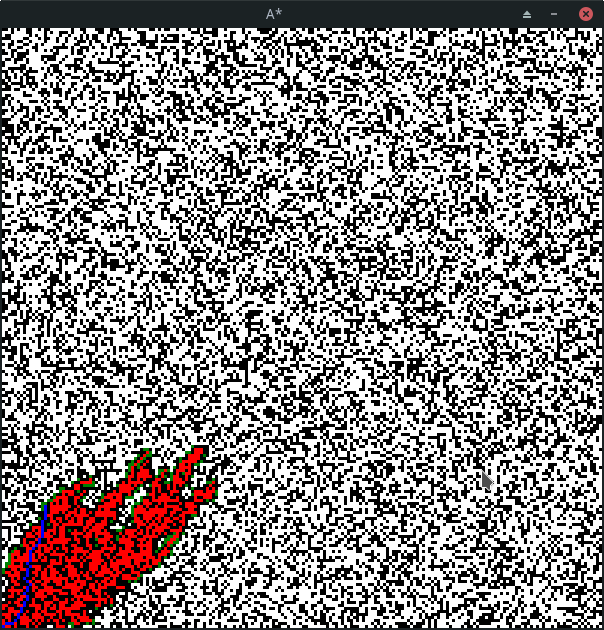
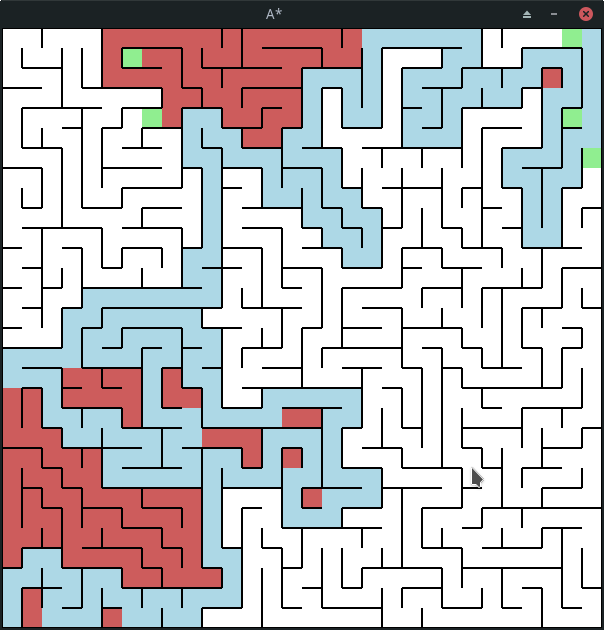
Set up maze on grid creation rather than random non-traversable nodes; updated readme

diff --git a/grid.go b/grid.go
@@ -3,32 +3,8 @@ package main
 import (
 	"github.com/faiface/pixel"
 	"github.com/faiface/pixel/pixelgl"
-	"golang.org/x/image/colornames"
 	"math/rand"
 )
-
-var pict *pixel.PictureData
-var red, green, blue, black *pixel.Sprite
-
-func init() {
-	pict = pixel.MakePictureData(pixel.R(0, 0, scale, scale*4))
-	for i := 0; i < len(pict.Pix); i++ {
-		switch i / int(scale*scale) {
-		case 0:
-			pict.Pix[i] = colornames.Green
-		case 1:
-			pict.Pix[i] = colornames.Blue
-		case 2:
-			pict.Pix[i] = colornames.Red
-		case 3:
-			pict.Pix[i] = colornames.Black
-		}
-	}
-	green = pixel.NewSprite(pict, pixel.R(0, 0, scale, scale))
-	blue = pixel.NewSprite(pict, pixel.R(0, scale, scale, scale*2))
-	red = pixel.NewSprite(pict, pixel.R(0, scale*2, scale, scale*3))
-	black = pixel.NewSprite(pict, pixel.R(0, scale*3, scale, scale*4))
-}
 
 type Grid struct {
 	width, height, src_x, src_y, dst_x, dst_y int
@@ -54,20 +30,89 @@ func NewGrid(width, height, src_x, src_y, dst_x, dst_y int) *Grid {
 	for x := 0; x < width; x++ {
 		g.grid = append(g.grid, make([]*Node, height))
 		for y := 0; y < height; y++ {
-			chance := rand.Float64()
-			traversable := false
-			if chance > 0.2 || (x == src_x && y == src_y) || (x == dst_x && y == dst_y) {
-				traversable = true
-			}
-			g.grid[x][y] = NewNode(float64(x), float64(y), traversable)
+			g.grid[x][y] = NewNode(float64(x), float64(y))
 			g.grid[x][y].Hscore(float64(dst_x), float64(dst_y))
 		}
 		g.opened[x] = make(map[int]*Node)
 		g.closed[x] = make(map[int]*Node)
 	}
 
+	g.InitMaze()
+	g.Restart()
+
 	g.opened[src_x][src_y] = g.grid[src_x][src_y]
 	return g
+}
+
+func (g *Grid) InitMaze() {
+	stack := []*Node{}
+
+	current := g.grid[g.src_x][g.src_y]
+	current.last = current
+	stack = append(stack, current)
+
+	for {
+		if len(stack) == 0 {
+			break
+		}
+
+		// Pop from stack
+		current = stack[len(stack)-1]
+		stack = stack[:len(stack)-1]
+
+		// Select random unvisited neighbor
+		unvisited := []*Node{}
+		if current.x > 0 {
+			left := g.grid[int(current.x)-1][int(current.y)]
+			if left.last == nil {
+				unvisited = append(unvisited, left)
+			}
+		}
+		if int(current.x) < g.width-1 {
+			right := g.grid[int(current.x)+1][int(current.y)]
+			if right.last == nil {
+				unvisited = append(unvisited, right)
+			}
+		}
+		if current.y > 0 {
+			down := g.grid[int(current.x)][int(current.y)-1]
+			if down.last == nil {
+				unvisited = append(unvisited, down)
+			}
+		}
+		if int(current.y) < g.height-1 {
+			up := g.grid[int(current.x)][int(current.y)+1]
+			if up.last == nil {
+				unvisited = append(unvisited, up)
+			}
+		}
+		if len(unvisited) == 0 {
+			continue
+		}
+		stack = append(stack, current)
+		next := unvisited[rand.Intn(len(unvisited))]
+
+		// Remove wall between cells
+		if current.x > next.x {
+			current.left = false
+			next.right = false
+		}
+		if current.x < next.x {
+			current.right = false
+			next.left = false
+		}
+		if current.y > next.y {
+			current.down = false
+			next.up = false
+		}
+		if current.y < next.y {
+			current.up = false
+			next.down = false
+		}
+
+		next.last = next
+		stack = append(stack, next)
+	}
 }
 
 func (g *Grid) Restart() {
@@ -85,6 +130,12 @@ func (g *Grid) Restart() {
 
 func (g *Grid) Draw(win *pixelgl.Window) {
 	g.batch.Clear()
+	for x := range g.grid {
+		for y := range g.grid[x] {
+			g.grid[x][y].Draw(g.batch, white)
+		}
+	}
+
 	for _, v := range g.closed {
 		for _, iv := range v {
 			iv.Draw(g.batch, red)
@@ -100,14 +151,6 @@ func (g *Grid) Draw(win *pixelgl.Window) {
 	for current != nil {
 		current.Draw(g.batch, blue)
 		current = current.last
-	}
-
-	for x := range g.grid {
-		for y := range g.grid[x] {
-			if !g.grid[x][y].traversable {
-				g.grid[x][y].Draw(g.batch, black)
-			}
-		}
 	}
 
 	g.batch.Draw(win)
@@ -165,87 +208,27 @@ func (g *Grid) Step() (complete bool) {
 	g.current = current
 
 	// Left neighbor
-	if g.current.x > 0 {
+	if !g.current.left {
 		left := g.grid[int(g.current.x)-1][int(g.current.y)]
-		if left.traversable {
-			g.UpdateNeighbor(g.current, left)
-		}
+		g.UpdateNeighbor(g.current, left)
 	}
 
 	// Right neighbor
-	if int(g.current.x) < g.width-1 {
+	if !g.current.right {
 		right := g.grid[int(g.current.x)+1][int(g.current.y)]
-		if right.traversable {
-			g.UpdateNeighbor(g.current, right)
-		}
+		g.UpdateNeighbor(g.current, right)
 	}
 
 	// Bottom neighbor
-	if g.current.y > 0 {
+	if !g.current.down {
 		down := g.grid[int(g.current.x)][int(g.current.y)-1]
-		if down.traversable {
-			g.UpdateNeighbor(g.current, down)
-		}
+		g.UpdateNeighbor(g.current, down)
 	}
 
 	// Top neighbor
-	if int(g.current.y) < g.height-1 {
+	if !g.current.up {
 		up := g.grid[int(g.current.x)][int(g.current.y)+1]
-		if up.traversable {
-			g.UpdateNeighbor(g.current, up)
-		}
-	}
-
-	// Bottom-left neighbor
-	if g.current.x > 0 && g.current.y > 0 {
-		left := g.grid[int(g.current.x)-1][int(g.current.y)]
-		down := g.grid[int(g.current.x)][int(g.current.y)-1]
-
-		if left.traversable || down.traversable {
-			left_down := g.grid[int(g.current.x)-1][int(g.current.y)-1]
-			if left_down.traversable {
-				g.UpdateNeighbor(g.current, left_down)
-			}
-		}
-	}
-
-	// Top-left neighbor
-	if g.current.x > 0 && int(g.current.y) < g.height-1 {
-		left := g.grid[int(g.current.x)-1][int(g.current.y)]
-		up := g.grid[int(g.current.x)][int(g.current.y)+1]
-
-		if left.traversable || up.traversable {
-			left_up := g.grid[int(g.current.x)-1][int(g.current.y)+1]
-			if left_up.traversable {
-				g.UpdateNeighbor(g.current, left_up)
-			}
-		}
-	}
-
-	// Bottom-right neighbor
-	if int(g.current.x) < g.width-1 && g.current.y > 0 {
-		right := g.grid[int(g.current.x)+1][int(g.current.y)]
-		down := g.grid[int(g.current.x)][int(g.current.y)-1]
-
-		if right.traversable || down.traversable {
-			right_down := g.grid[int(g.current.x)+1][int(g.current.y)-1]
-			if right_down.traversable {
-				g.UpdateNeighbor(g.current, right_down)
-			}
-		}
-	}
-
-	// Top-right neighbor
-	if int(g.current.x) < g.width-1 && int(g.current.y) < g.height-1 {
-		right := g.grid[int(g.current.x)+1][int(g.current.y)]
-		up := g.grid[int(g.current.x)][int(g.current.y)+1]
-
-		if right.traversable || up.traversable {
-			right_up := g.grid[int(g.current.x)+1][int(g.current.y)+1]
-			if right_up.traversable {
-				g.UpdateNeighbor(g.current, right_up)
-			}
-		}
+		g.UpdateNeighbor(g.current, up)
 	}
 
 	return false

diff --git a/node.go b/node.go
@@ -2,23 +2,28 @@ package main
 
 import (
 	"github.com/faiface/pixel"
+	"github.com/faiface/pixel/imdraw"
+	"golang.org/x/image/colornames"
 	"math"
 )
 
 type Node struct {
-	x, y, g, h float64
-	last *Node
-	traversable bool
+	x, y, g, h            float64
+	last                  *Node
+	left, right, down, up bool
 }
 
-func NewNode(x, y float64, traversable bool) *Node {
+func NewNode(x, y float64) *Node {
 	n := &Node{
-		x: x,
-		y: y,
-		g: -1,
-		h: 0,
-		last: nil,
-		traversable: traversable,
+		x:     x,
+		y:     y,
+		g:     -1,
+		h:     0,
+		last:  nil,
+		left:  true,
+		right: true,
+		down:  true,
+		up:    true,
 	}
 	return n
 }
@@ -40,6 +45,38 @@ func (n *Node) dist(x, y float64) float64 {
 	return math.Sqrt(first + second)
 }
 
-func (n *Node) Draw (win pixel.Target, tile *pixel.Sprite) {
-	tile.Draw(win, pixel.IM.Moved(pixel.V(n.x * scale + scale/2, n.y * scale + scale/2)))
+func (n *Node) Draw(win pixel.Target, tile *pixel.Sprite) {
+	tile.Draw(win, pixel.IM.Moved(pixel.V(n.x*scale+scale/2, n.y*scale+scale/2)))
+
+	imd := imdraw.New(nil)
+	thickness := scale / 10
+
+	if n.left {
+		imd.Color = colornames.Black
+		imd.Push(pixel.V(n.x*scale, n.y*scale+scale), pixel.V(n.x*scale, n.y*scale))
+		imd.Line(thickness)
+		imd.Draw(win)
+		imd.Reset()
+	}
+	if n.right {
+		imd.Color = colornames.Black
+		imd.Push(pixel.V(n.x*scale+scale, n.y*scale+scale), pixel.V(n.x*scale+scale, n.y*scale))
+		imd.Line(thickness)
+		imd.Draw(win)
+		imd.Reset()
+	}
+	if n.down {
+		imd.Color = colornames.Black
+		imd.Push(pixel.V(n.x*scale, n.y*scale), pixel.V(n.x*scale+scale, n.y*scale))
+		imd.Line(thickness)
+		imd.Draw(win)
+		imd.Reset()
+	}
+	if n.up {
+		imd.Color = colornames.Black
+		imd.Push(pixel.V(n.x*scale, n.y*scale+scale), pixel.V(n.x*scale+scale, n.y*scale+scale))
+		imd.Line(thickness)
+		imd.Draw(win)
+		imd.Reset()
+	}
 }

diff --git a/sprites.go b/sprites.go
@@ -1,0 +1,29 @@
+package main
+
+import (
+	"github.com/faiface/pixel"
+	"golang.org/x/image/colornames"
+)
+
+var pict *pixel.PictureData
+var red, green, blue, white *pixel.Sprite
+
+func init() {
+	pict = pixel.MakePictureData(pixel.R(0, 0, scale, scale*4))
+	for i := 0; i < len(pict.Pix); i++ {
+		switch i / int(scale*scale) {
+		case 0:
+			pict.Pix[i] = colornames.Lightgreen
+		case 1:
+			pict.Pix[i] = colornames.Lightblue
+		case 2:
+			pict.Pix[i] = colornames.Indianred
+		case 3:
+			pict.Pix[i] = colornames.White
+		}
+	}
+	green = pixel.NewSprite(pict, pixel.R(0, 0, scale, scale))
+	blue = pixel.NewSprite(pict, pixel.R(0, scale, scale, scale*2))
+	red = pixel.NewSprite(pict, pixel.R(0, scale*2, scale, scale*3))
+	white = pixel.NewSprite(pict, pixel.R(0, scale*3, scale, scale*4))
+}

diff --git a/main.go b/main.go
@@ -10,9 +10,8 @@ import (
 
 // Global constants (window height/width, node size, and framerate limit)
 const winx, winy float64 = 600, 600
-const scale float64 = 3
+const scale float64 = 10
 
-//const frametime time.Duration = time.Second / 60
 const frametime time.Duration = 0
 
 func run() {

diff --git a/README.md b/README.md
@@ -1,5 +1,5 @@
 # a-star
-A* Search algorithm visualization. The program generates a random grid of nodes and then solves for the shortest path between the bottom left node and the top right node.
+A* Search algorithm visualization. The program generates a random maze and then solves for the shortest path between the bottom left node and the top right node.
 
 ## Running
 To run the program, run the following command.
@@ -11,5 +11,14 @@ go run *.go
 
 ## Controls
 `r` - Restarts the search
+
 `Space` - Creates a new grid
+
 `Esc` - Exits the program
+
+## Information
+Blue - Current path
+
+Red - Closed set
+
+Green - Open set
